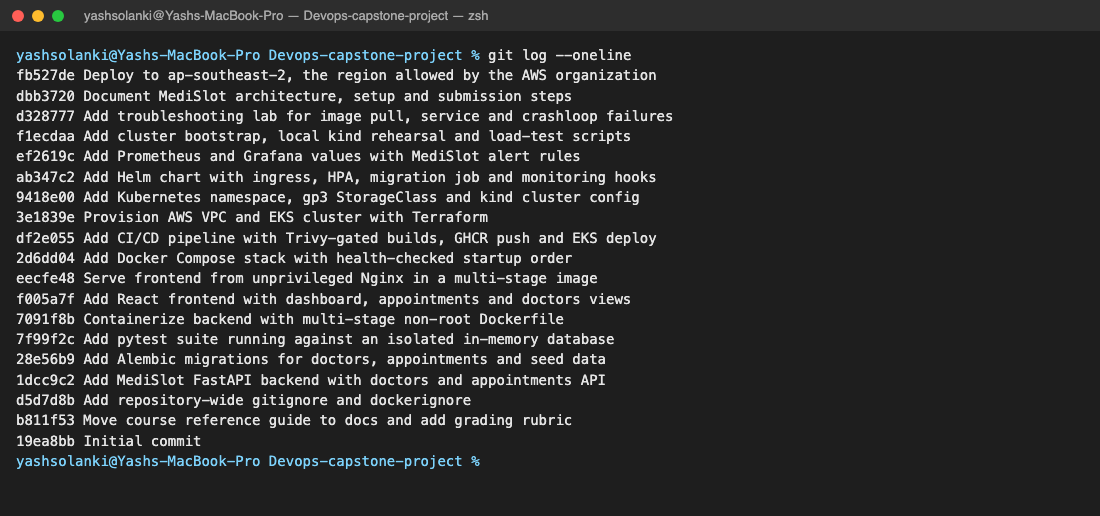
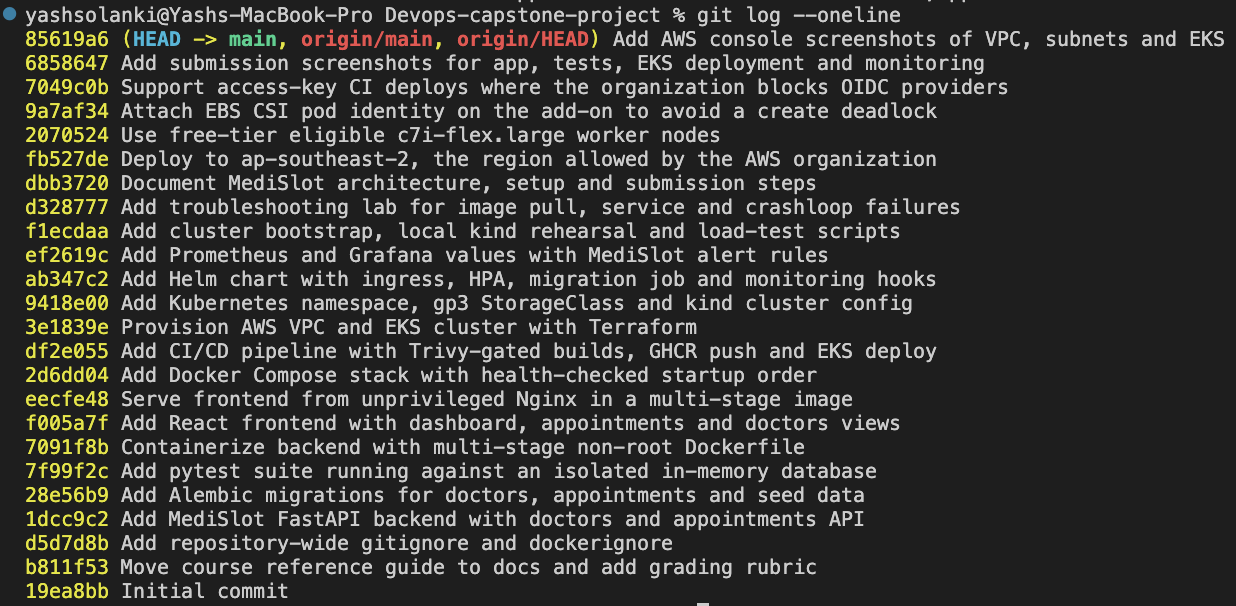
Refresh cost notes, deploy-identity wording and Grafana error panel

Changed region(s): [[0.0, 0.0, 0.9891, 0.9922], [0.5564, 0.9922, 0.5873, 1.0]]

diff --git a/README.md b/README.md
@@ -39,7 +39,7 @@ Kubernetes deployment on AWS:
 | Tests | pytest (SQLite in-memory test DB), Node test runner |
 | Containers | Multi-stage Dockerfiles, non-root users, Docker Compose |
 | CI/CD | GitHub Actions, Trivy, GitHub Container Registry |
-| Infrastructure | Terraform (AWS VPC + EKS modules), EBS CSI via EKS Pod Identity, GitHub OIDC |
+| Infrastructure | Terraform (AWS VPC + EKS modules), EBS CSI via EKS Pod Identity, CI deploy identity (OIDC role or least-privilege user) |
 | Platform | Kubernetes, Helm 4, ingress-nginx, HPA + metrics-server, PodDisruptionBudgets |
 | Observability | kube-prometheus-stack (Prometheus, Grafana, Alertmanager) |
 
@@ -52,7 +52,7 @@ backend/            FastAPI app (app/), Alembic migrations (alembic/versions/), 
 frontend/           React app (src/), Nginx config template, multi-stage Dockerfile
 docker-compose.yml  Full local stack: postgres + backend + frontend
 .github/workflows/  CI/CD pipeline
-terraform/          AWS VPC + EKS + IAM (EBS CSI, GitHub OIDC deploy role)
+terraform/          AWS VPC + EKS + IAM (EBS CSI role, GitHub Actions deploy identity)
 k8s/                Namespace, gp3 StorageClass, kind cluster config
 helm/medislot/      Helm chart (Deployments, Services, StatefulSet, Ingress, HPA, ServiceMonitor, dashboard)
 monitoring/         kube-prometheus-stack values (Prometheus + Grafana)
@@ -200,7 +200,11 @@ cluster with a managed node group (2× `c7i-flex.large`, autoscaling 2–4) and 
 `metrics-server`. Finally, it creates an IAM role GitHub Actions can assume only from the `main` branch
 of this repository (or, where OIDC is blocked, a deploy user limited to `eks:DescribeCluster`). See [terraform/README.md](terraform/README.md).
 
-> **Cost:** EKS control plane + NAT gateway + 2 nodes ≈ US$0.25/hour. Run `terraform destroy` after the
+> **Instance type:** `c7i-flex.large` (2 vCPU, 4 GiB) because AWS *Free plan* accounts can only launch
+> free-tier-eligible types; `t3.medium` is rejected there.
+>
+> **Cost:** EKS control plane + NAT gateway + 2 nodes + the ingress load balancer ≈ US$0.40/hour
+> (billed against Free plan credits, if you have them). Run `terraform destroy` after the
 > evaluation, after first running `helm uninstall` (see section 9).
 
 ---

diff --git a/docs/SUBMISSION.md b/docs/SUBMISSION.md
@@ -110,8 +110,8 @@ Follow README section 9, then `terraform destroy` → 📸 `m7-terraform-destroy
 > libraries vendored inside `pip`, not from the application's own code, so I removed `pip` from the final
 > runtime image (it is not needed once dependencies are installed). The scan has been clean since. A clean
 > result means no *known, fixable* HIGH/CRITICAL CVEs at scan time. It is not a guarantee of security,
-> which is why the pipeline also uses non-root containers, least-privilege tokens and OIDC instead of
-> stored keys.
+> which is why the pipeline also uses non-root containers, least-privilege tokens and a deploy identity
+> that can do nothing in AWS except look up the cluster.
 
 ---
 

diff --git a/terraform/README.md b/terraform/README.md
@@ -52,5 +52,7 @@ kubectl delete pvc --all -n medislot
 terraform destroy
 ```
 
-> Cost: EKS control plane (~$0.10/h) + NAT gateway (~$0.056/h + data) + 2× c7i-flex.large (~$0.09/h) in ap-southeast-2.
+> Cost (ap-southeast-2, approx.): EKS control plane $0.10/h + NAT gateway ~$0.06/h + 2× c7i-flex.large ~$0.20/h
+> + the ingress NLB ~$0.03/h ≈ **$0.40/h**. `c7i-flex.large` is used because Free plan accounts may only launch
+> free-tier-eligible instance types.
 > Destroy as soon as you have your screenshots.
